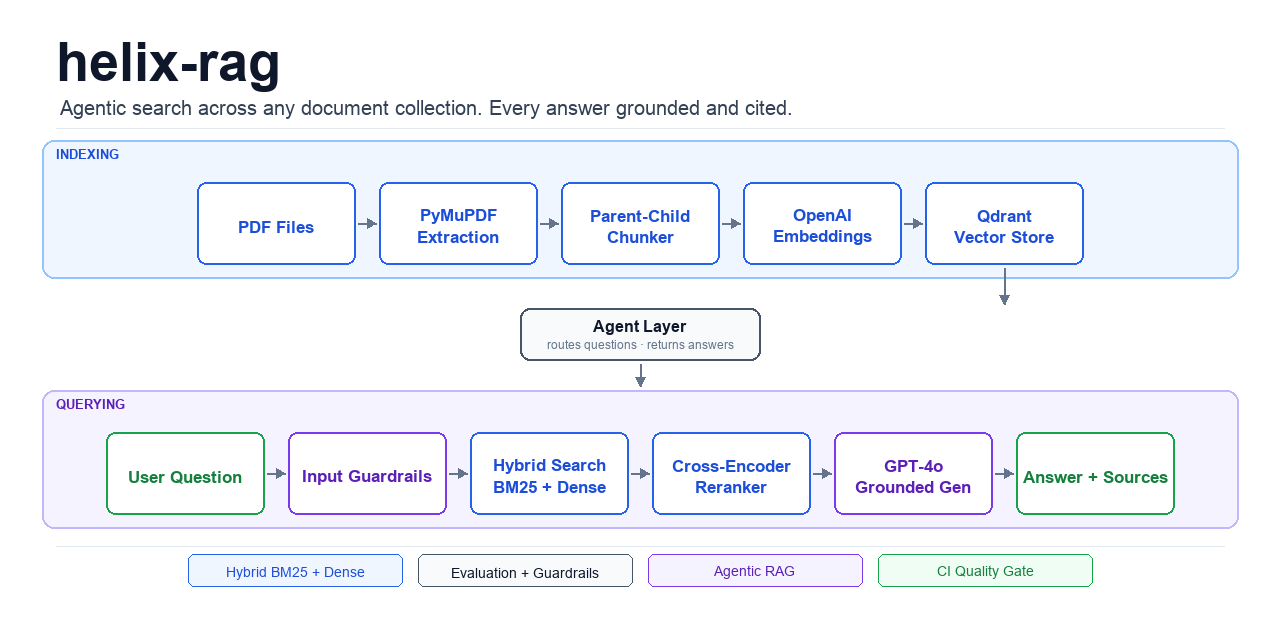
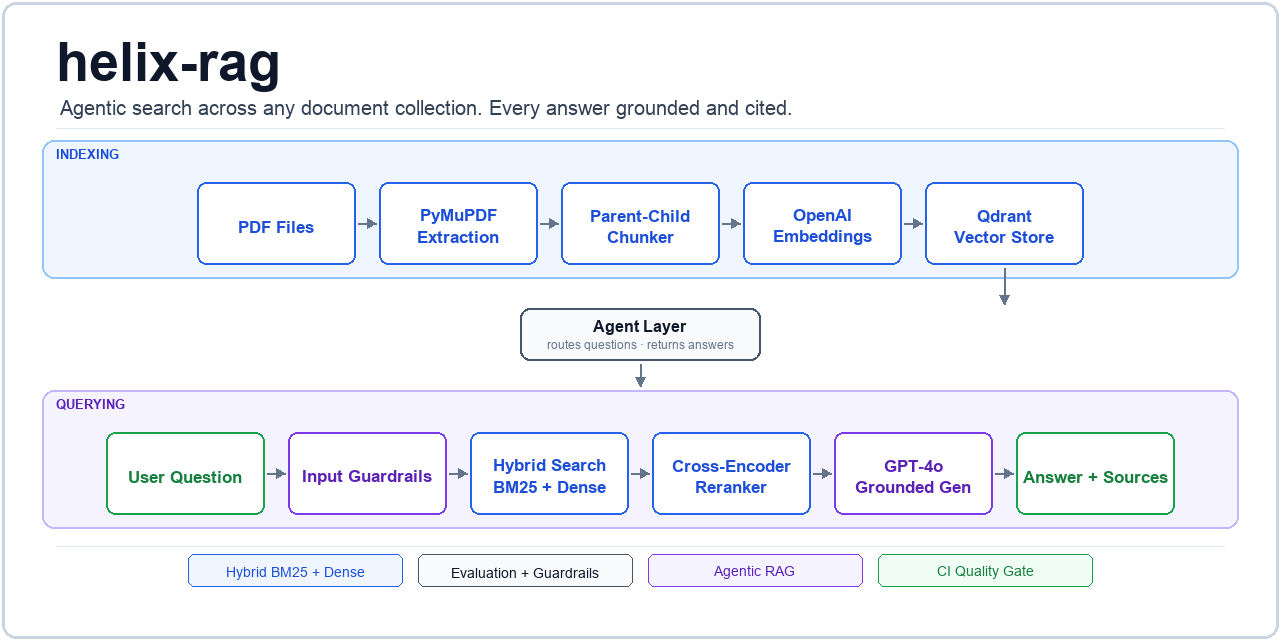
Add border to social preview card

Changed region(s): [[0.0, 0.9688, 1.0, 1.0], [0.0, 0.0, 1.0, 0.0312]]

diff --git a/docs/generate_social_card.py b/docs/generate_social_card.py
@@ -213,6 +213,9 @@ for label, bg, bd, tx in badges:
     text_c(draw, bdg_x + BDG_W//2, bdg_y + BDG_H//2, label, f_small, tx)
     bdg_x += BDG_W + BDG_GAP
 
+# Border around the entire card
+rr(draw, 2, 2, W-4, H-4, 14, None, "#cbd5e1", lw=3)
+
 img.save("docs/social_preview.png", "PNG")
 total_h = R2_Y + block_h2 + 26 + BDG_H
 print(f"Content bottom: {total_h}px  Canvas: {H}px  Remaining: {H-total_h}px")
